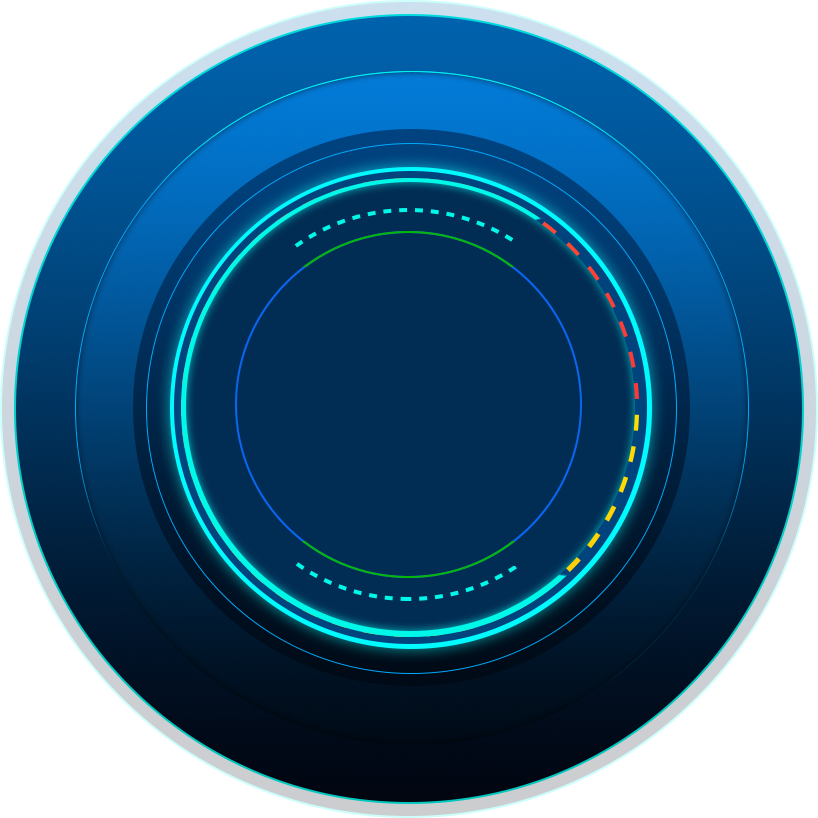
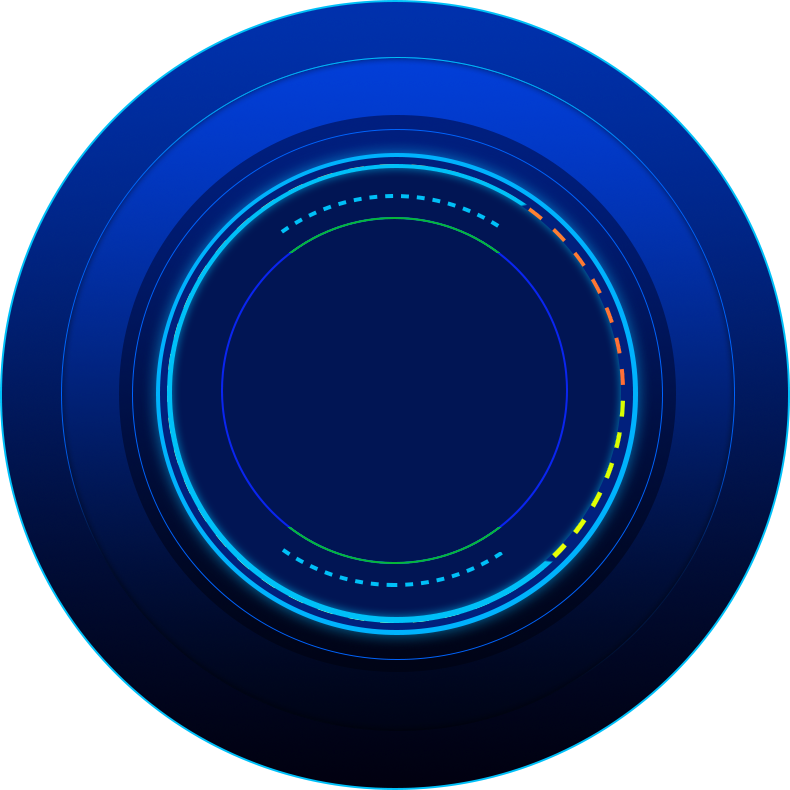
大屏前端模板

diff --git a/src/components/dashboard/index.vue b/src/components/dashboard/index.vue
@@ -1,5 +1,9 @@
 <template>
-  <div ref="outer" style="background: rgba(0,0,0,.1)" v-if="width > 0">
+  <div ref="outer" v-if="width > 0">
+    <div class="cont_box">
+      <div class="text">西藏自治区商务诚信指数</div>
+      <div class="number">{{action * 10}}</div>
+    </div>
   </div>
 </template>
 
@@ -74,7 +78,7 @@ export default {
       grad.addColorStop(1, "rgb(24, 76, 133)");
       while (index !== arrLength) {
         ctx.beginPath();
-        ctx.strokeStyle = index <= action ? "#ffe04e" : grad;
+        ctx.strokeStyle = index <= action ? "#ffe04e" : "#2c5bad";
         let qidian = start + index / arrLength * 2 * Math.PI;
         let zhongdian = start + (index + 0.02) / arrLength * 2 * Math.PI;
         ctx.arc(width / 2, width / 2, radio - 50, qidian, zhongdian);
@@ -82,7 +86,7 @@ export default {
         let x = width / 2 - radio * Math.sin(qidian - 0.5 * Math.PI);
         let y = width / 2 + radio * Math.cos(qidian - 0.5 * Math.PI) + 8;
 
-        ctx.fillStyle = index <= action ? "#ffe04e" : "#fff";
+        ctx.fillStyle = index <= action ? "#ffe04e" : "#17cbff";
         ctx.stroke();
         ctx.fillText(index + "0", x, y);
         index++;
@@ -91,9 +95,9 @@ export default {
     drowImg(ctx) {
       var _ = this,image1 = new Image();
       image1.onload = function() {
-        if(shuzi1 < 30 * (12 + _.action )){
+        if(shuzi1 < 30 * (12 + _.action ) || true){
           timer1 = window.setTimeout(() => {
-            console.log(shuzi1)
+            // console.log(shuzi1)
             shuzi1 = parseInt(shuzi1) + 3;
             _.drowImg(ctx);
           }, 20)
@@ -118,5 +122,20 @@ export default {
 <style scoped>
 .model {
   position: absolute;
+}
+.cont_box{
+  position: absolute;
+  left: 254px;
+  top: 300px;
+  width: 280px;
+  text-align: center;
+}
+.text{
+  color: #21c8f8;
+  font-size: 24px;
+}
+.number{
+  color: #2172f8;
+  font-size: 140px;
 }
 </style>

diff --git a/config/index.js b/config/index.js
@@ -11,7 +11,7 @@ module.exports = {
     index: path.resolve(__dirname, '../dist/index.html'),
     assetsRoot: path.resolve(__dirname, '../dist'),
     assetsSubDirectory: 'static',
-    assetsPublicPath: '/',
+    assetsPublicPath: './',
     productionSourceMap: true,
     // Gzip off by default as many popular static hosts such as
     // Surge or Netlify already gzip all static assets for you.

diff --git a/build/utils.js b/build/utils.js
@@ -38,6 +38,7 @@ exports.cssLoaders = function (options) {
     if (options.extract) {
       return ExtractTextPlugin.extract({
         use: loaders,
+        publicPath: '../../',
         fallback: 'vue-style-loader'
       })
     } else {

diff --git a/src/pages/page1/components/select_target.vue b/src/pages/page1/components/select_target.vue
@@ -15,8 +15,8 @@ export default {
     return {
       model: {
         img: require('../../../assets/images/dashboard.png'),
-        left: 1257,
-        top: 88
+        left: 1272,
+        top: 106
       }
     }
   },
